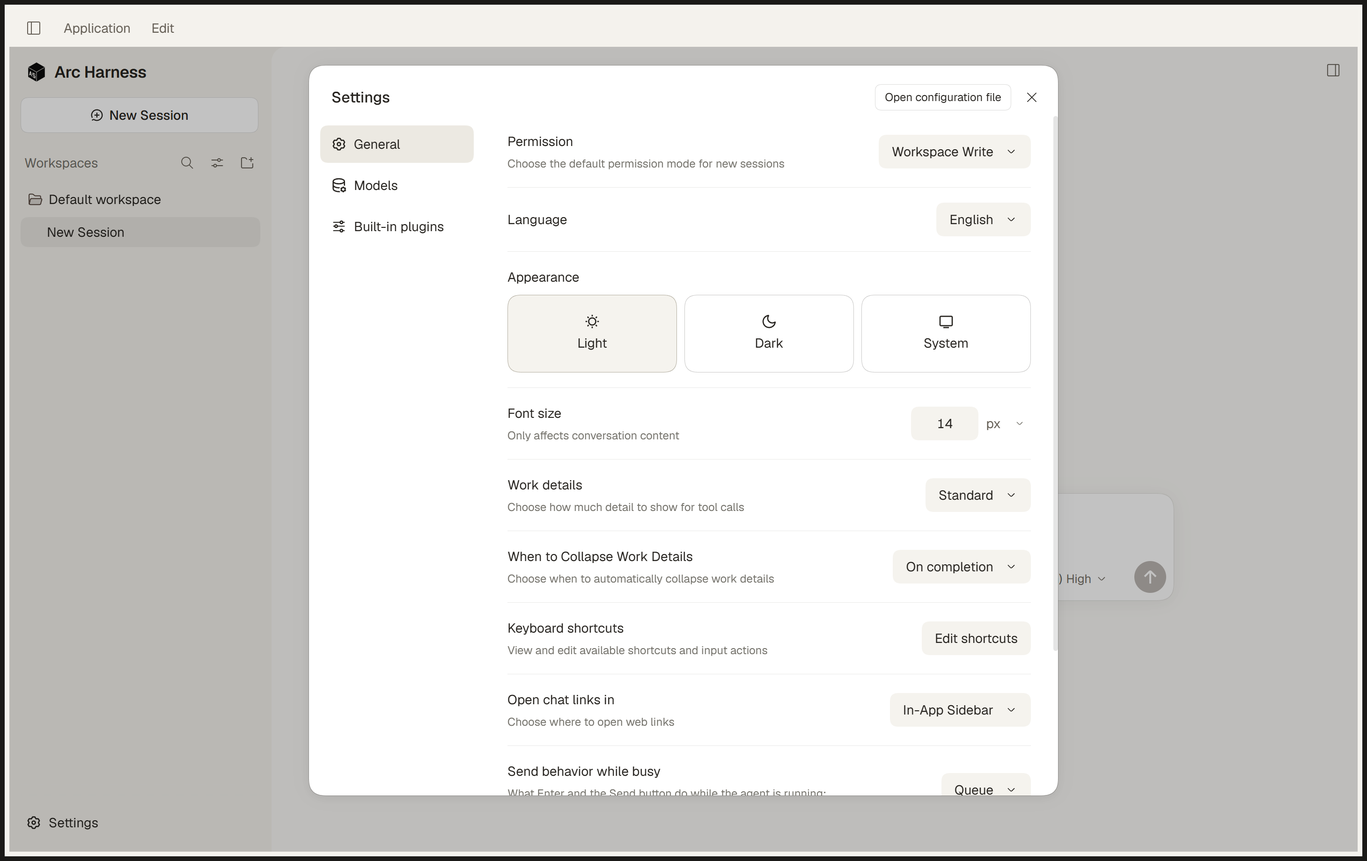
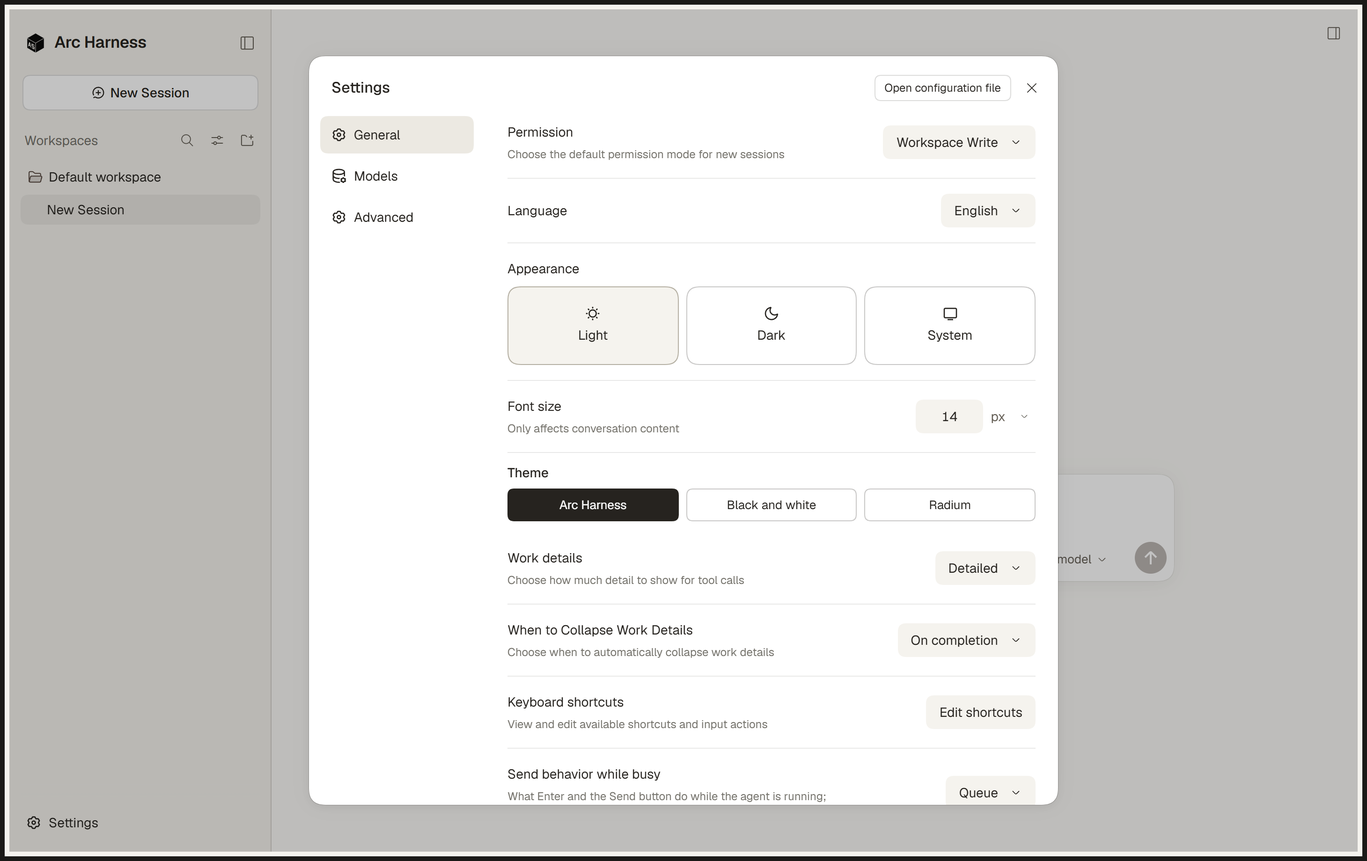
Refresh 0.5.0 Settings captures and align remaining wiki and contributing docs

diff --git a/wiki/Roadmap.md b/wiki/Roadmap.md
@@ -39,21 +39,21 @@ Keep the module system inside the app. Freeze one composition. Remove pnpm and t
 
 Each item is small and has a proof. Each goes through the review checklist on the page [A review checklist](How-we-check-our-work).
 
-| Planned work | What it means | Proof |
+| Work item | State in 0.5.0 | Proof |
 |---|---|---|
-| Pin the upstream release | Pin the upstream release tag, build it, and compare it with the shipped archive. | A hash report |
-| Close the plugin manager | Part exists: the lean core switches off the plugin manager and the Plugins page. Still planned: remove pnpm from the app, the plugin market, hot reload and the registry checks, and add a read-only page called "Built-in features". | No pnpm process, no registry traffic, a page test |
-| Fold in the kept plugins | Part exists: the two Arc plugins are in `plugins/`, and you install them by copying. Still planned: move the plugins we keep into the archive, including the theme skin. | A profile with an empty `node_modules` folder still works |
-| Memory gateway | Build a memory gateway into the app as a host part. A setting switches it on. It has authentication, and keys go into the system credential store. Today `arc-hoh` talks to a separate local gateway on port 7424. | Recall and store work without a start-up script |
-| Cammut client tab | A tab for your own Cammut server. You enter the server address, an API key and a token if the server needs one. The tab shows the connection state. You pick the memory scopes. The tab also shows the memory policy. | A fresh install with an empty profile connects to a test server, recalls a note and stores one |
-| Memory policy | Part exists: `arc-hoh` puts memory rules into the prompt. Still planned: the memory policy as a built-in module, with a documented default text. See [The memory policy](The-memory-policy). | Policy tests with a fake server: each rule fires, a switched-off rule does not |
-| Vendor the kept plugins | Copy the kept plugins into the repository with their license notices. | A license audit and feature checks |
-| Settings-only profile | The profile keeps only its settings file. | Delete `node_modules` and every feature remains |
-| Source fork | Fork the upstream source with a generated module table and reproducible hashes. | The same hash twice |
-| Rust parts | Replace single parts with Rust, one at a time, only where measured time or a removed dependency justifies it. | Tests that compare output byte for byte with the current implementation |
-| Public release | Credits, license files, a clean history, a first-run wizard that asks for your server address and your keys, and releases built by CI. | A clean clone builds the installer, and a scan finds no secret and no personal path |
+| Pin the upstream release | Built in `lib/native/upstream-diff.mjs` and `brandtext/upstream-manifest.json`; building upstream from source remains planned. | Manifest hash report in `native-transition.test.mjs` |
+| Close the plugin manager | Lean core switches off the Plugins page, and `lib/native/runtime-guard.mjs` blocks `pnpm` and registry probes in tests. Removing `pnpm` from the upstream archive awaits the source fork. | `ui-crawl.mjs --lean` and `native-transition.test.mjs` |
+| Fold in the kept plugins | All six Arc plugins live in `plugins/`, and `lib/native/vendor-bundler.mjs` stages them with a license audit. Folding them into a single unpatched archive awaits the source fork. | `native-transition.test.mjs` |
+| Memory gateway | `lib/native/cammut-gateway.mjs` implements the loopback `127.0.0.1` Bearer-authenticated Cammut gateway, and `plugins/arc-core/lib/deploy.js` deploys Hindsight and Cammut over TOFU SSH. System credential-store storage remains planned. | `native-transition.test.mjs` and `plugins/arc-core/test/core.test.mjs` |
+| Cammut client tab | `plugins/arc-core` provides the C2 console (Memory and Servers panels) plus TOFU SSH server deployment; system credential-store storage remains planned. | `plugins/arc-core/test/ui-panel.test.mjs` |
+| Memory policy | Built in `plugins/arc-core` (five-label note policy, secret rejection, near-twin supersede, and fail-open Cammut breaker) alongside the `arc-hoh` prompt contract. | `plugins/arc-core/test/core.test.mjs` |
+| Vendor the kept plugins | Built in `brandtext/upstream-manifest.json` and `lib/native/vendor-bundler.mjs`, generating `THIRD_PARTY_NOTICES`. | `native-transition.test.mjs` |
+| Settings-only profile | `lib/native/settings-profile.mjs` implements the settings-only profile pruner; removing `node_modules` at boot awaits the source fork. | `native-transition.test.mjs` |
+| Source fork | `lib/native/module-table.mjs` generates deterministic Cordis module tables; the full upstream source fork remains planned. | Same hash twice (`native-transition.test.mjs`) |
+| Rust parts | Built in `native/arc-validators` (zero-dependency Rust crate for SHA-256, prose rules, secret scans, hook guards, SVG bounds, network grants and seal guards). | `cargo test --manifest-path native/arc-validators/Cargo.toml` |
+| Public release | Windows installer staging (`tools/package.mjs`, `installer/arc-harness.iss`), releases `0.1.0` to `0.5.0`, and SHA-pinned Node + Rust CI are built; upstream source fork and first-run wizard remain planned. | `test/package.test.mjs` and `npm run scan` |
 
-Cammut is a separate memory server. Users run it themselves. Arc Harness talks to it through `arc-hoh` and plans a client tab. See [Connect your Cammut server](Connect-your-Cammut-server).
+Cammut is a separate memory server that users run themselves. Arc Harness connects through `arc-hoh`, the `arc-core` MCP tools and C2 console, and the loopback gateway module in `lib/native/cammut-gateway.mjs`. See [Connect your Cammut server](Connect-your-Cammut-server).
 
 ## Order
 

diff --git a/wiki/Connect-your-Cammut-server.md b/wiki/Connect-your-Cammut-server.md
@@ -1,13 +1,13 @@
 # Connect your Cammut server
 
-Status: Partly. The plugin `arc-hoh` already reads notes from a Cammut server and writes gate verdicts to it through a local gateway. The Cammut client tab is Planned. Arc Harness has no Cammut tab and no setting for a server address, an API key or a token today.
+Status: Partly. `arc-hoh` reads memory briefs and writes gate verdicts through `127.0.0.1:7424`, `arc-core` adds `memory.recall` and `memory.retain` MCP tools plus the C2 console and TOFU SSH deployment, and `lib/native/cammut-gateway.mjs` provides the loopback Bearer-authenticated gateway module. Storing keys in the operating system credential store remains planned.
 
 Cammut is a separate memory server. Users run it themselves. It stores short notes that an agent can search later, so a new session can start with what earlier sessions learned.
 
 ## What exists today
 
-The plugin `arc-hoh` talks to your Cammut server through a local gateway on the loopback address `127.0.0.1`, port 7424. The gateway is a separate program. This repository does not contain it.
-The plugin sends no key or token of its own to the gateway.
+The plugin `arc-hoh` talks to your Cammut server through a local gateway on the loopback address `127.0.0.1`, port 7424. `lib/native/cammut-gateway.mjs` ships the Phase 6 loopback gateway module with Bearer token validation, and `plugins/arc-core` (`0.2.0`) exposes `memory.recall` and `memory.retain` tools, the C2 Memory and Servers panels, and `lib/deploy.js` TOFU SSH server deployment.
+`arc-hoh` sends no key or token of its own when reading the local brief.
 
 - **The brief.** The plugin asks Cammut for notes that match the task and puts at most six short notes into the system prompt. A note is cut to 220 characters. The brief refreshes every 20 minutes. The Trace tab in the right sidebar shows it.
 - **The verdicts.** The accept gate writes each verdict to Cammut through the same gateway. Secret-shaped text is redacted first.
@@ -28,28 +28,17 @@ The app's own documentation for the MCP client has the field list. It is in the 
 
 No check in this repository connects the generic MCP client to a Cammut server. That route is untested.
 
-## What is planned
+## C2 console and SSH deployment
 
-A tab inside Arc Harness, called the Cammut client tab. The tab would have three fields:
+`plugins/arc-core` (`0.2.0`) includes the Memory and Servers panels in the C2 console (`ui/panel.js`) and `lib/deploy.js` for deploying Hindsight, the Cammut gateway and a reverse proxy to a Linux host over SSH with Trust-On-First-Use host-key verification. A native main-process password dialog keeps first-login SSH passwords out of the WebView, URLs, storage and logs.
 
-1. **Server address.** The web address of your own Cammut server.
-2. **API key.** The key your Cammut server asks for.
-3. **Token.** An access token, only if your server needs one.
+## What remains planned
 
-Besides the fields, the tab would show whether the connection works. It would let you pick the memory scopes the agent may use.
-It would also show the memory policy that applies.
+- Storing Cammut API keys and access tokens in the operating system credential store.
+- Wiring `lib/native/cammut-gateway.mjs` directly into the unpatched upstream host once the Phase 6 source fork lands. See [Roadmap](Roadmap).
 
-A first run on an empty profile should connect to a test server, recall a note and store a note. That is the planned proof for this step.
-The roadmap item "Cammut client tab" covers it. See [Roadmap](Roadmap).
+## What you need
 
-Keys and tokens are planned to go into the system credential store.
-
-## What you will need
-
-- A Cammut server that you run yourself.
-- The local gateway on port 7424, which exposes it to the plugin.
-- The plugin `arc-hoh` in your profile.
-
-## Why the tab is not built yet
-
-The built-in memory gateway and the client tab depend on earlier roadmap items. The package model has to change first, and the memory policy needs a decided default text.
+- A Cammut server that you run yourself (locally or deployed over SSH with `arc-core`).
+- The local gateway on `127.0.0.1:7424`.
+- `arc-hoh` and `arc-core` installed in your profile.

diff --git a/wiki/The-memory-policy.md b/wiki/The-memory-policy.md
@@ -1,6 +1,6 @@
 # The memory policy
 
-Status: Partly. The plugin `arc-hoh` puts memory rules into every system prompt as text. The app enforces only the brief, the secret redaction and the verdict write. The default policy as an editable file is Planned.
+Status: Partly. `arc-hoh` puts the memory contract into every system prompt and filters the brief, and `arc-core` (`0.2.0`) enforces the five-label memory policy, secret rejection, near-twin supersede and fail-open circuit breaker in code. Editing the default policy file from a Settings tab remains planned.
 
 A memory policy is a short list of rules that says when the agent reads from the memory server and when it writes to it.
 Without rules, a memory server is only a place to put notes. With rules, the agent uses it the same way every time.
@@ -22,19 +22,22 @@ The contract is text in the prompt. The agent can ignore it. Code enforces three
 - the accept gate writes each verdict to memory by itself, after the same redaction,
 - the notes sit inside a tag that marks them as untrusted data.
 
-## What is planned
+## Code enforcement in `arc-core`
 
-The plan is to ship one documented default policy as a file. You can read it, change it, and switch parts off. It adds one rule that the contract does not have today:
+Alongside `arc-hoh`, `plugins/arc-core` (`0.2.0`) enforces the Phase 2 memory policy in code whenever `memory.retain` or `memory.recall` runs:
 
-- **Replace a stale note.** When a note is wrong, the agent stores a corrected note and marks the old note invalid.
+- **Five allowed labels.** Every retained note must carry one of five labels: `decision`, `correction`, `artifact`, `verified_fact` or `lesson`. Other labels are rejected.
+- **Secret rejection.** Notes matching API key, token or private-key patterns are refused before any network call.
+- **Replace stale near-twins.** Storing an updated note supersedes near-twin stale notes so superseded claims do not accumulate.
+- **Fail-open breaker.** When the Cammut gateway is unreachable, the circuit breaker trips cleanly without blocking local session work.
 
-The Cammut client tab would show the policy and let you switch parts of it off. See [Connect your Cammut server](Connect-your-Cammut-server).
+## How it is tested
 
-## How it would be tested
+`plugins/arc-core/test/core.test.mjs` tests the five-label filter, secret rejection, near-twin supersede and fail-open breaker against a mock gateway. `plugins/arc-hoh/test/hoh.test.mjs` tests the brief filter, untrusted-data framing and prompt sections. Run both with `npm test`.
 
-Each rule gets a test with a fake memory server. A test checks that a rule fires when it should. A test checks that a rule you switched off does not fire.
-These tests do not exist yet. The roadmap item "Memory policy" covers them. See [Roadmap](Roadmap).
-Today the plugin tests cover the brief filter and the prompt sections. Run `node --test plugins/arc-hoh/test/hoh.test.mjs`.
+## What remains planned
+
+Exposing the default memory policy as a user-editable file with per-rule toggles in Settings. See [Roadmap](Roadmap) and [Connect your Cammut server](Connect-your-Cammut-server).
 
 ## Why a policy helps
 

diff --git a/README.md b/README.md
@@ -44,7 +44,7 @@ This repository holds the build kit, six Arc plugins, the C2 console, Windows in
 | **Chat diagrams** | `arc-mermaid` renders `flowchart`, `stateDiagram`, and `sequenceDiagram` code blocks in chat with Molecullage layout gates and SVG or PNG export. |
 | **Paper look and intro** | `arc-theme` and `tools/build.mjs` ship the `#faf9f6` paper and `#171614` dark palette, 24 px menu blur, and a skippable 7.4 s intro. |
 | **Gemini tool continuity** | `tools/build.mjs` captures and replays `extra_content.google.thought_signature` on streamed and parallel tool calls for multi-turn Vertex AI and Gemini sessions. |
-| **Zero vendor telemetry** | Vendor sign-in, telemetry rows, and remote update feeds are disabled at build time and verified by static and live network traces. |
+| **Zero vendor telemetry** | Build patches disable vendor sign-in, telemetry rows, and update feeds; static and live traces check all three. |
 | **Rust native guards** | `native/arc-validators` checks SHA-256 digests, prose rules, secret scans, SVG icon bounds, network grants, and seal boundaries with zero external crates. |
 
 ## Architecture
@@ -60,7 +60,7 @@ flowchart LR
   Reviewer --> Ledger["Hash-Chained Ledger<br/>Trace Tab + Rust Validators"]
 ```
 
-A provider configured with its own API key on the Models page connects directly from the desktop host. Gateway routes pass through `127.0.0.1:7424`, where credentials stay outside workspace files and unsafe writes are refused. Five clips in [`media/`](media/README.md) show the five-gate AND chain ([`gates.gif`](media/gates.gif)), rank fusion ([`ranking.gif`](media/ranking.gif)), patch replay ([`better.mp4`](media/better.mp4)), distillation ([`student.mp4`](media/student.mp4)), and context compression ([`context.mp4`](media/context.mp4)).
+A provider configured with its own API key on the Models page connects directly from the desktop host. Gateway routes pass through `127.0.0.1:7424`, keeping keys outside workspace files and refusing unsafe writes. Five clips in [`media/`](media/README.md) show the gate chain ([`gates.gif`](media/gates.gif)), rank fusion ([`ranking.gif`](media/ranking.gif)), and patch replay ([`better.mp4`](media/better.mp4)). Two more cover distillation ([`student.mp4`](media/student.mp4)) and context compression ([`context.mp4`](media/context.mp4)).
 
 ## Plugins
 
@@ -75,7 +75,7 @@ A provider configured with its own API key on the Models page connects directly 
 
 ## Screens
 
-Desktop captures generated by `test/desktop-journey.mjs --mode shots`:
+Interface captures from the 0.5.0 build:
 
 | | |
 |---|---|

diff --git a/CHANGELOG.md b/CHANGELOG.md
@@ -23,14 +23,14 @@ All notable changes to Arc Harness are listed here. The format follows [Keep a C
 ### Removed
 
 - Purged November 4 debug-progress narrative and failed-run screenshots (`task-run.png`, `task-memory.png`, `task-approval.png`), retired Built-in plugins screenshot (`light-settings-plugins.png`), and stale white-background November 4 raster schematics (`roadmap.png`, `arc-build.png`, `request-flow.png`, `hoh-cycle.png`).
-- Pruned merged temporary worktrees and stale merged feature branches so `main` is the clean active branch.
+- Pruned 5 merged temporary worktrees, 8 merged local feature branches, and all 14 stale remote feature branches on `origin` so `origin/main` is the sole remote branch.
 
 ## [0.4.0] - 2026-11-09
 
 ### Added
 
 - Unified C2 console UI (`plugins/arc-core/ui/panel.js` and `lib/console.js`): joins Research, Memory, Molecullage, and Prose workspaces with Servers, Keys, Apps, and Audit panels, three-pane Research session view, 30-day consent dialog, and local prose rule detector.
-- Phase 6 Arc Native and Rust transition slices `N0` to `N9` (`lib/native/` and `native/arc-validators`): pinned upstream manifest diffing, runtime package-manager and registry probe guards, vendored plugin license auditor, loopback `127.0.0.1` Cammut gateway with Bearer auth, settings-only profile pruner, deterministic Cordis module-table generator, and zero-dependency Rust crate (`sha256`, `arc_rules`, `arc_scan`, `arc_hook`, `vector_assets`, `seal_guard`, `grants_net`).
+- Phase 6 Arc Native and Rust transition slices `N0` to `N9` (`lib/native/` and `native/arc-validators`): pinned upstream manifest diffing, runtime package-manager guards, vendored plugin license audit, loopback `127.0.0.1` Cammut gateway, settings-only profile pruner, and Cordis module-table generator. Includes the zero-dependency Rust crate (`sha256`, `arc_rules`, `arc_scan`, `arc_hook`, `vector_assets`, `seal_guard`, `grants_net`).
 - Intuition Router and decision checkpoints (`plugins/arc-hoh/lib/intuition.js`): `DEC-xxxx` schema validation, 13-state task graph checkpoint/resume, and Brier-calibrated routing.
 - `tools/bench-runner.mjs`: deterministic headless benchmark harness with self-test suite.
 

diff --git a/CONTRIBUTING.md b/CONTRIBUTING.md
@@ -10,7 +10,7 @@ Thank you for helping. This page tells you how to change the kit, what to run be
 
 ## Set up
 
-You need Node.js 22.19 or newer, Git and Python 3. Most Python scripts use the standard library only; `brand/build_brand.py` also needs Pillow.
+You need Node.js 22.19 or newer, Git and Python 3. Rust (`cargo`) is optional and runs the `native/arc-validators` suite. Most Python scripts use the standard library only; `brand/build_brand.py` also needs Pillow.
 
 ```
 git clone <your fork>
@@ -18,7 +18,7 @@ cd <the folder>
 npm test
 ```
 
-`npm test` needs no original archive. It checks syntax, the rename map, icon colours, both plugins and the privacy scan self-test.
+`npm test` needs no original archive. It checks syntax, the rename map, icon colours, header SVGs, all six Arc plugins, installer and native transition slices, and the privacy scan self-test. Run `cargo test --manifest-path native/arc-validators/Cargo.toml` when you change `native/arc-validators`.
 
 To test a change to a build patch, you need the original archive. The wiki page "Build from source" shows how to get it.
 Then run `node tools/build.mjs` and `npm run test:archive`.
@@ -31,7 +31,7 @@ Then run `node tools/build.mjs` and `npm run test:archive`.
 4. Never add the original app archive, any file from an installed app, or any binary built from them.
 5. Never add personal data: no names, e-mail addresses, home paths, machine names, keys or tokens.
 6. Run `npm run scan` before you push. It must report no findings.
-7. Do not add a dependency for something a few lines can do. The kit has none today.
+7. Do not add a runtime dependency for something a few lines can do. Both the Node kit and the Rust validator crate have zero external runtime packages.
 8. Review every new picture by eye. Add its SHA-256 to `brand/pictures.json` only after you have looked at it. A picture that shows the old vendor's mark goes in the `whale` list with a replacement.
 9. Update the wiki page that describes what you changed, and its "Status" line.
 

diff --git a/wiki/FAQ.md b/wiki/FAQ.md
@@ -30,8 +30,8 @@ No. The patches target version 0.2.1-rc.5. A different version needs new patches
 
 ## Can I run a memory server?
 
-Not through a built-in feature yet. The plugin `arc-hoh` can read notes from your own Cammut server and write gate verdicts to it through a local gateway.
-See [Connect your Cammut server](Connect-your-Cammut-server) and [The memory policy](The-memory-policy). The client tab and the default policy file are Planned.
+Yes, by running your own Cammut server alongside the local gateway on `127.0.0.1:7424`. `arc-hoh` reads memory briefs and writes gate verdicts, `arc-core` adds `memory.recall` and `memory.retain` MCP tools, the C2 Memory and Servers panels, and TOFU SSH server deployment, and `lib/native/cammut-gateway.mjs` provides the Phase 6 loopback gateway module.
+See [Connect your Cammut server](Connect-your-Cammut-server) and [The memory policy](The-memory-policy). Storing keys in the OS credential store and editing the policy file in Settings remain planned.
 
 ## Where is my data?
 
@@ -58,7 +58,7 @@ Not tested: no check ran the original uninstaller.
 
 ## Why is the old name still in some places?
 
-The installed app keeps the original program file name, install folder and Start menu name. The design-token prefixes `dsw-` and `ds-` stay, and so do the ids of real models in the third-party catalog.
+An in-place `install.cmd` updates `resources/app.asar` inside the existing app folder and keeps its executable name. Run `node tools/package.mjs` with `rcedit` and Inno Setup (`installer/arc-harness.iss`) to stage `Arc Harness.exe` and a standalone Start menu installer. The design-token prefixes `dsw-` and `ds-` stay, and so do the ids of real models in the third-party catalog.
 The internal names are Arc names: the packages, the runtime folder, the command `arc`, the data folder `.arc` and the variable `ARC_HOME`. See "What stays" in [Build from source](Build-from-source).
 
 ## Why are the Chinese texts gone?

diff --git a/wiki/Contributing.md b/wiki/Contributing.md
@@ -9,13 +9,13 @@ Read [Build from source](Build-from-source) and [A review checklist](How-we-chec
 
 ## Set up
 
-You need Node.js 22.19 or newer, Git and Python 3. CI runs Node.js 24. The picture scan `test/image-scan.py` uses the standard library only. The brand file builder `brand/build_brand.py` also needs Pillow. Then:
+You need Node.js 22.19 or newer, Git and Python 3. Rust (`cargo`) is optional and runs `native/arc-validators`. CI runs Node.js 24 and stable Rust. The picture scan `test/image-scan.py` uses the standard library only. The brand file builder `brand/build_brand.py` also needs Pillow. Then:
 
 ```
 npm test
 ```
 
-It needs no original archive. It runs the syntax check, the rename map check, the icon color test, the tests of the two Arc plugins and the self-test of the privacy scan.
+It needs no original archive. It runs the syntax check, the rename map check, the icon color and header tests, all six Arc plugin test suites, the installer and native transition tests, and the privacy scan self-test. Run `cargo test --manifest-path native/arc-validators/Cargo.toml` when you touch `native/arc-validators`.
 To test a change to a patch, build from the original archive and run `npm run test:archive`. See [Build from source](Build-from-source) and [Run the tests](Run-the-tests).
 
 ## Rules for a change

diff --git a/wiki/Build-from-source.md b/wiki/Build-from-source.md
@@ -130,7 +130,7 @@ The built archive uses the Arc paths: `arc/node_modules/@arc-harness/arc-<name>`
 
 The build changes the names that a person reads, and the internal names listed above. These stay:
 
-- the original program file name, the install folder and the Start menu name of the installed app,
+- the original program file name, install folder and Start menu name when you use in-place `install.cmd` (`node tools/package.mjs` and `installer/arc-harness.iss` stage `Arc Harness.exe` instead),
 - the design-token prefixes `dsw-` and `ds-` of the original interface,
 - the ids of real models in the third-party model catalog.
 
@@ -138,4 +138,4 @@ The build changes the names that a person reads, and the internal names listed a
 
 - The build changes the archive. It does not change the Electron runtime, Chromium or the native modules next to the archive.
 - The patches target one build. A different version needs new patches.
-- The desktop window, the menus and the installer are not started by any test.
+- `test/desktop-journey.mjs` checks the desktop window and Settings; native operating-system menus and the Inno Setup installer are not run in CI.

diff --git a/wiki/How-we-check-our-work.md b/wiki/How-we-check-our-work.md
@@ -35,7 +35,7 @@ The Trace tab in the right sidebar shows the ledger. The gate checks the evidenc
 - Two scans read the same archive with different code, so a mistake in one shows in the other.
 - A positive control runs the scans on the original archive. A scan that reads nothing fails there.
 - The privacy scan runs before anything is published. Run it yourself with `npm run scan`.
-- CI runs the syntax check, the rename map check, the icon color test, the two plugin tests, the privacy scan self-test and the privacy scan on every push. The file is `.github/workflows/ci.yml`. Run the first four yourself with `npm test`.
+- CI runs the full `npm test` suite (syntax, rename map, icon colors, header SVGs, all six plugins, installer, benchmark and native transition tests, and privacy self-test), `cargo test` on `native/arc-validators`, and the repository privacy scan on every push. The file is `.github/workflows/ci.yml`.
 
 ## Evidence levels
 

diff --git a/wiki/Plugins-and-why-the-package-model-goes-away.md b/wiki/Plugins-and-why-the-package-model-goes-away.md
@@ -25,7 +25,7 @@ The plugin manager is off, so you install plugins by copying them and adding the
 
 ## The lean profile
 
-`node tools/lean-profile.mjs apply` cuts the bundle list of a profile to four bundles: `@arc-harness/arc-base`, `@arc-harness/arc-web-app`, `arc-theme` and `arc-hoh`.
+`node tools/lean-profile.mjs apply` cuts the bundle list of a profile to `@arc-harness/arc-base`, `@arc-harness/arc-web-app`, `arc-theme`, `arc-hoh` and every optional Arc plugin (`arc-core`, `arc-mode`, `arc-molecullage`, `arc-mermaid`) installed in `node_modules`.
 The other packages stay installed. Only the list changes, so a bundle comes back by one line. The tool keeps an undo list, and `restore` uses it.
 The file `brandtext/lean-profile.json` lists each bundle that leaves the profile and why.
 

diff --git a/wiki/Quick-start.md b/wiki/Quick-start.md
@@ -42,12 +42,14 @@ The lean core has no Plugins page, no Automation tasks, no Context Insights and 
 
 ## Settings worth knowing
 
-The lean core keeps two settings pages: General and Models.
+The lean core keeps General and Models, and the plugin `arc-mode` adds Advanced.
 
 - **General, Permission.** The default permission mode for new sessions.
 - **General, Appearance.** Light, Dark or System. A new data folder starts in Light.
 - **General, Font size.** Affects the conversation text only.
+- **General, Theme.** Select Arc Harness (paper), Black and white or Radium when `arc-theme` is installed.
 - **Models.** Your providers and keys.
+- **Advanced.** Switch Arc Harness mode on or off and inspect the installed rules, hooks, skills and benchmark tables.
 
 ## Next
 
